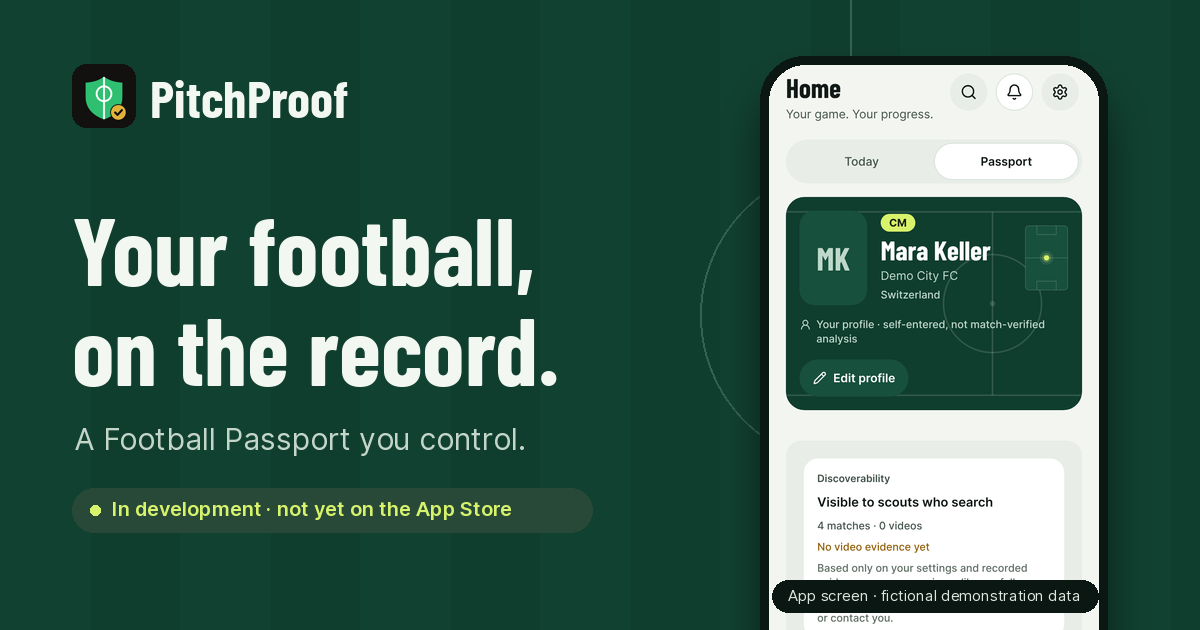
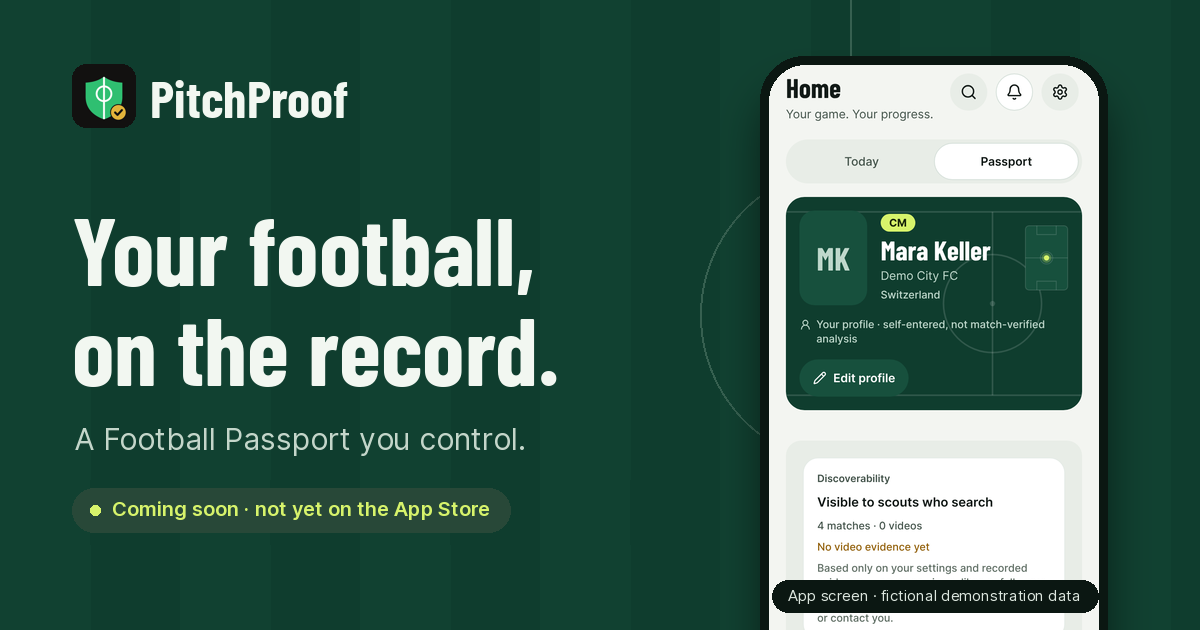
Website: say Coming soon wherever availability is shown (hero, footers, FAQ, metadata, social image)
Claude-Session: https://claude.ai/code/session_014u9U1Rm9umfgJ24q9965WJ

Changed region(s): [[0.0925, 0.754, 0.4625, 0.8444]]

diff --git a/public/features/index.html b/public/features/index.html
@@ -20,4 +20,4 @@
 <section class="section product-band" id="passport"><div class="shell product-layout"><div class="product-copy"><p class="eyebrow">01 / Football Passport</p><h2>Your game in context.</h2><p>Your player profile, match record and chosen highlights in one shareable place. Choose public sections and keep the origin of information clear.</p><ul class="plain-list"><li>Profile and football background</li><li>Logged match and season information</li><li>Selected highlights and endorsements</li><li>Sharing and visibility controls</li></ul><a class="text-link" href="/players/">The player journey &#8599;</a></div><figure class="product-preview"><div class="phone"><img src="/welcome/img/app/passport-owner-720.webp" srcset="/welcome/img/app/passport-owner-360.webp 360w, /welcome/img/app/passport-owner-720.webp 720w" sizes="(max-width: 560px) 86vw, 300px" width="720" height="1558" loading="lazy" alt="Home, Passport tab: Mara Keller's profile, labelled self-entered and not match-verified"></div><figcaption>App screen &middot; fictional demonstration data</figcaption></figure></div></section>
 <section class="section"><div class="shell feature-rows"><article><p class="eyebrow">02 / Performance</p><h2>A record you can build on.</h2><p>Log matches and statistics, track basic development goals and write a post-match reflection in your own words. Match logging and basic development stay free.</p><p class="muted">A reflection is personal and is excluded from the public Passport.</p></article><article><p class="eyebrow">03 / Media &amp; observations</p><h2>Footage is a starting point.</h2><p>Upload highlights and build reels within usage limits. Match video analysis is in development and not available in the app yet; when it ships, it asks you to confirm it is really you before anything counts.</p><p class="limitation">Continuous player tracking, automated events and pitch maps are unavailable. AI observations are not verified performance measurements.</p></article></div></section>
 <section class="section scout-band"><div class="shell"><div class="section-heading"><p class="eyebrow">04 / Scout workspace</p><h2>Research. Organise. Follow up.</h2></div><div class="editorial-grid"><article><h3>Discovery &amp; comparison</h3><p>Search opted-in players and compare evidence side by side. No overall or potential-grade sorting, and no declared winner.</p></article><article><h3>Pipeline</h3><p>Save players, filter by stage and search, and keep private workspace notes.</p></article><article><h3>Requests &amp; trials</h3><p>Ask for more evidence and manage trial invitations. Guardian co-approval applies for minors.</p></article></div><a class="text-link section-link" href="/scouts/">Explore scouting &#8599;</a></div></section>
-<section class="section"><div class="shell feature-rows"><article><p class="eyebrow">Access</p><h2>Free essentials. Clear limits.</h2><p>Match logging, basic development, safety and privacy features are always free. Optional Premium is intended to increase usage limits.</p><p>Purchasing and restore still require store and device validation. PitchProof is not yet available on the App Store.</p><a class="text-link" href="/subscription-terms/">Subscription Terms &#8599;</a></article><article><p class="eyebrow">Language &amp; privacy</p><h2>Made to fit your world.</h2><p>The app supports English, German, French, Spanish, Italian, Portuguese and Dutch. Export and account deletion are available through account settings.</p><a class="text-link" href="/welcome/#safety">Safety and privacy &#8599;</a></article></div></section><section class="closing"><div class="shell"><p class="eyebrow">The next step</p><h2>Find your side of the game.</h2><div class="actions"><a class="button" href="/players/">For players <span aria-hidden="true">&#8599;</span></a><a class="button secondary" href="/scouts/">For scouts <span aria-hidden="true">&#8599;</span></a></div><p class="small muted">Explore the product. App Store release is still ahead.</p></div></section></main><footer class="site-footer"><div class="shell"><div class="footer-top"><a class="brand" href="/welcome/">PitchProof<span class="brand-dot" aria-hidden="true"></span></a><p>Your game. Your evidence. Your terms.</p><span class="release-label">Not yet available on the App Store</span></div><nav aria-label="Footer"><a href="/features/">Features</a><a href="/players/">For players</a><a href="/scouts/">For scouts</a><a href="/about/">About</a><a href="/faq/">FAQ</a><a href="/contact/">Contact</a><a href="/welcome/#safety">Safety</a><a href="/privacy/">Privacy Policy</a><a href="/terms/">Terms of Service</a><a href="/subscription-terms/">Subscription Terms</a><a href="/support/">Support</a><a href="/report/">Report content</a><a href="/account-deletion/">Account deletion</a><a href="/legal-notice/">Legal notice</a><a href="/legal/">All policies</a></nav><div class="footer-bottom"><p>PitchProof does not guarantee trials, contracts or selection.</p><p>&copy; 2026 Lusiola Software, Switzerland.</p></div></div></footer></body></html>
+<section class="section"><div class="shell feature-rows"><article><p class="eyebrow">Access</p><h2>Free essentials. Clear limits.</h2><p>Match logging, basic development, safety and privacy features are always free. Optional Premium is intended to increase usage limits.</p><p>Purchasing and restore still require store and device validation. PitchProof is not yet available on the App Store.</p><a class="text-link" href="/subscription-terms/">Subscription Terms &#8599;</a></article><article><p class="eyebrow">Language &amp; privacy</p><h2>Made to fit your world.</h2><p>The app supports English, German, French, Spanish, Italian, Portuguese and Dutch. Export and account deletion are available through account settings.</p><a class="text-link" href="/welcome/#safety">Safety and privacy &#8599;</a></article></div></section><section class="closing"><div class="shell"><p class="eyebrow">The next step</p><h2>Find your side of the game.</h2><div class="actions"><a class="button" href="/players/">For players <span aria-hidden="true">&#8599;</span></a><a class="button secondary" href="/scouts/">For scouts <span aria-hidden="true">&#8599;</span></a></div><p class="small muted">Explore the product. App Store release is still ahead.</p></div></section></main><footer class="site-footer"><div class="shell"><div class="footer-top"><a class="brand" href="/welcome/">PitchProof<span class="brand-dot" aria-hidden="true"></span></a><p>Your game. Your evidence. Your terms.</p><span class="release-label">Coming soon &middot; not yet on the App Store</span></div><nav aria-label="Footer"><a href="/features/">Features</a><a href="/players/">For players</a><a href="/scouts/">For scouts</a><a href="/about/">About</a><a href="/faq/">FAQ</a><a href="/contact/">Contact</a><a href="/welcome/#safety">Safety</a><a href="/privacy/">Privacy Policy</a><a href="/terms/">Terms of Service</a><a href="/subscription-terms/">Subscription Terms</a><a href="/support/">Support</a><a href="/report/">Report content</a><a href="/account-deletion/">Account deletion</a><a href="/legal-notice/">Legal notice</a><a href="/legal/">All policies</a></nav><div class="footer-bottom"><p>PitchProof does not guarantee trials, contracts or selection.</p><p>&copy; 2026 Lusiola Software, Switzerland.</p></div></div></footer></body></html>

diff --git a/public/about/index.html b/public/about/index.html
@@ -19,4 +19,4 @@
 <header class="site-header"><div class="shell header-inner"><a class="brand" href="/welcome/" aria-label="PitchProof home"><img src="/welcome/img/icon.png" width="32" height="32" alt="">PitchProof<span class="brand-dot" aria-hidden="true"></span></a><details class="navigation" open><summary>Menu</summary><nav aria-label="Main"><a href="/features/">Features</a><a href="/players/">Players</a><a href="/scouts/">Scouts</a><a href="/about/" aria-current="page">About</a><a href="/faq/">FAQ</a><a href="/contact/">Contact</a><a class="nav-safety" href="/welcome/#safety">Safety &amp; privacy</a></nav></details></div></header><main id="main" tabindex="-1"><section class="page-intro"><div class="shell"><p class="eyebrow">About PitchProof</p><h1>The player behind<br>the evidence.</h1><p class="lead">Football is bigger than a single clip or a number. PitchProof brings the record together without pretending it tells the whole story.</p></div></section>
 <section class="section product-band"><div class="shell editorial-statement"><p class="eyebrow">Our starting point</p><h2>Give the work context.<br>Give the player control.</h2><p>A player should be able to record their matches, keep track of development and decide what to share. A scout should be able to understand where information comes from and ask a thoughtful follow-up.</p><p>That is the role of the Football Passport: a connected record, not a promise of discovery or a shortcut to a contract.</p></div></section>
 <section class="section"><div class="shell editorial-grid"><article><span class="index">01 / Evidence</span><h3>Be clear about the source.</h3><p>Self-reported information and AI observations need context. Missing evidence should never become an invented certainty.</p></article><article><span class="index">02 / Agency</span><h3>Let the player choose.</h3><p>Public sharing and scout discovery are deliberate choices, with additional safeguards for young players.</p></article><article><span class="index">03 / Responsibility</span><h3>Keep judgement human.</h3><p>Comparison does not need a winner. A useful scouting tool supports considered decisions, not speculative potential rankings.</p></article></div></section>
-<section class="section scout-band"><div class="shell feature-rows"><article><p class="eyebrow">Where we are</p><h2>Still being built.</h2><p>PitchProof is in development and not yet available on the App Store. Product previews use demonstration data; they are not customer results or evidence of native-device validation.</p><p>The football campaign image is AI-generated and illustrative, not a customer photograph.</p><a class="text-link" href="/faq/#availability">Availability and limitations &#8599;</a></article><article><p class="eyebrow">Who is behind it</p><h2>PitchProof.</h2><p>Operated by Lusiola Software in Switzerland. Operator details and contact information are available in the legal notice.</p><a class="text-link" href="/legal-notice/">Legal notice &#8599;</a><a class="text-link separate-link" href="/contact/">Get in touch &#8599;</a></article></div></section><section class="closing"><div class="shell"><p class="eyebrow">The next step</p><h2>Find your side of the game.</h2><div class="actions"><a class="button" href="/players/">For players <span aria-hidden="true">&#8599;</span></a><a class="button secondary" href="/scouts/">For scouts <span aria-hidden="true">&#8599;</span></a></div><p class="small muted">Explore the product. App Store release is still ahead.</p></div></section></main><footer class="site-footer"><div class="shell"><div class="footer-top"><a class="brand" href="/welcome/">PitchProof<span class="brand-dot" aria-hidden="true"></span></a><p>Your game. Your evidence. Your terms.</p><span class="release-label">Not yet available on the App Store</span></div><nav aria-label="Footer"><a href="/features/">Features</a><a href="/players/">For players</a><a href="/scouts/">For scouts</a><a href="/about/">About</a><a href="/faq/">FAQ</a><a href="/contact/">Contact</a><a href="/welcome/#safety">Safety</a><a href="/privacy/">Privacy Policy</a><a href="/terms/">Terms of Service</a><a href="/subscription-terms/">Subscription Terms</a><a href="/support/">Support</a><a href="/report/">Report content</a><a href="/account-deletion/">Account deletion</a><a href="/legal-notice/">Legal notice</a><a href="/legal/">All policies</a></nav><div class="footer-bottom"><p>PitchProof does not guarantee trials, contracts or selection.</p><p>&copy; 2026 Lusiola Software, Switzerland.</p></div></div></footer></body></html>
+<section class="section scout-band"><div class="shell feature-rows"><article><p class="eyebrow">Where we are</p><h2>Still being built.</h2><p>PitchProof is in development and not yet available on the App Store. Product previews use demonstration data; they are not customer results or evidence of native-device validation.</p><p>The football campaign image is AI-generated and illustrative, not a customer photograph.</p><a class="text-link" href="/faq/#availability">Availability and limitations &#8599;</a></article><article><p class="eyebrow">Who is behind it</p><h2>PitchProof.</h2><p>Operated by Lusiola Software in Switzerland. Operator details and contact information are available in the legal notice.</p><a class="text-link" href="/legal-notice/">Legal notice &#8599;</a><a class="text-link separate-link" href="/contact/">Get in touch &#8599;</a></article></div></section><section class="closing"><div class="shell"><p class="eyebrow">The next step</p><h2>Find your side of the game.</h2><div class="actions"><a class="button" href="/players/">For players <span aria-hidden="true">&#8599;</span></a><a class="button secondary" href="/scouts/">For scouts <span aria-hidden="true">&#8599;</span></a></div><p class="small muted">Explore the product. App Store release is still ahead.</p></div></section></main><footer class="site-footer"><div class="shell"><div class="footer-top"><a class="brand" href="/welcome/">PitchProof<span class="brand-dot" aria-hidden="true"></span></a><p>Your game. Your evidence. Your terms.</p><span class="release-label">Coming soon &middot; not yet on the App Store</span></div><nav aria-label="Footer"><a href="/features/">Features</a><a href="/players/">For players</a><a href="/scouts/">For scouts</a><a href="/about/">About</a><a href="/faq/">FAQ</a><a href="/contact/">Contact</a><a href="/welcome/#safety">Safety</a><a href="/privacy/">Privacy Policy</a><a href="/terms/">Terms of Service</a><a href="/subscription-terms/">Subscription Terms</a><a href="/support/">Support</a><a href="/report/">Report content</a><a href="/account-deletion/">Account deletion</a><a href="/legal-notice/">Legal notice</a><a href="/legal/">All policies</a></nav><div class="footer-bottom"><p>PitchProof does not guarantee trials, contracts or selection.</p><p>&copy; 2026 Lusiola Software, Switzerland.</p></div></div></footer></body></html>

diff --git a/public/players/index.html b/public/players/index.html
@@ -20,4 +20,4 @@
 <section class="section product-band"><div class="shell product-layout"><div class="product-copy"><p class="eyebrow">01 / Start with today</p><h2>One match.<br>One useful next step.</h2><p>Start from Today. Log a match, look back on how it went and keep your next development goal close.</p><ol class="number-list"><li><span>Make it yours</span>Add your football background and profile.</li><li><span>Keep a record</span>Log the matches and statistics you know.</li><li><span>Reflect</span>Write what you learned, in your own words.</li></ol></div><figure class="product-preview"><div class="phone"><img src="/welcome/img/app/today-720.webp" srcset="/welcome/img/app/today-360.webp 360w, /welcome/img/app/today-720.webp 720w" sizes="(max-width: 560px) 86vw, 300px" width="720" height="1558" loading="lazy" alt="PitchProof Today: Mara Keller's identity strip and the next step, Log your latest match"></div><figcaption>App screen &middot; fictional demonstration data</figcaption></figure></div></section>
 <section class="section"><div class="shell product-layout reverse"><div class="product-copy"><p class="eyebrow">02 / Performance</p><h2>Progress needs context.</h2><p>Review your recorded matches and work towards development goals. Missing information stays missing: a record is more useful when it is honest.</p><p>Keep personal reflection separate from public evidence. Basic development and match logging remain free.</p><a class="text-link" href="/features/">See the feature details &#8599;</a></div><figure class="product-preview"><div class="phone"><img src="/welcome/img/app/development-720.webp" srcset="/welcome/img/app/development-360.webp 360w, /welcome/img/app/development-720.webp 720w" sizes="(max-width: 560px) 86vw, 300px" width="720" height="1558" loading="lazy" alt="Development goals: Scan before receiving, and Use my left foot to switch play"></div><figcaption>App screen &middot; fictional demonstration data</figcaption></figure></div></section>
 <section class="section product-band"><div class="shell product-layout single"><div class="product-copy"><p class="eyebrow">03 / Media</p><h2>Show the moment.<br>Keep the context.</h2><p>Bring highlights into your media library and choose what to share. Reel Studio is usage-metered. Match video analysis is still in development and is not available in the app yet.</p><p class="muted">Only upload footage you have the right to use. Follow the recording and youth-safety policies.</p><a class="text-link" href="/legal/video-recording-policy/">Video Recording Policy &#8599;</a></div></div></section>
-<section class="section"><div class="shell"><div class="section-heading"><p class="eyebrow">04 / Your Passport, your terms</p><h2>Be seen when you choose.</h2><p>Choose your public Passport sections. Opt into discovery when appropriate. Respond to evidence requests and trial invitations, with guardian safeguards for minors.</p></div><div class="journey-links"><a href="/welcome/#safety"><span class="index">Before you share</span><h3>Know your controls.</h3><p>Visibility, reporting, blocking and guardian consent.</p><span class="text-link">Read about safety &#8599;</span></a><a href="/faq/#availability"><span class="index">Before you start</span><h3>Know what is available.</h3><p>PitchProof is still in development, not yet on the App Store.</p><span class="text-link">Release and access FAQ &#8599;</span></a></div></div></section></main><footer class="site-footer"><div class="shell"><div class="footer-top"><a class="brand" href="/welcome/">PitchProof<span class="brand-dot" aria-hidden="true"></span></a><p>Your game. Your evidence. Your terms.</p><span class="release-label">Not yet available on the App Store</span></div><nav aria-label="Footer"><a href="/features/">Features</a><a href="/players/">For players</a><a href="/scouts/">For scouts</a><a href="/about/">About</a><a href="/faq/">FAQ</a><a href="/contact/">Contact</a><a href="/welcome/#safety">Safety</a><a href="/privacy/">Privacy Policy</a><a href="/terms/">Terms of Service</a><a href="/subscription-terms/">Subscription Terms</a><a href="/support/">Support</a><a href="/report/">Report content</a><a href="/account-deletion/">Account deletion</a><a href="/legal-notice/">Legal notice</a><a href="/legal/">All policies</a></nav><div class="footer-bottom"><p>PitchProof does not guarantee trials, contracts or selection.</p><p>&copy; 2026 Lusiola Software, Switzerland.</p></div></div></footer></body></html>
+<section class="section"><div class="shell"><div class="section-heading"><p class="eyebrow">04 / Your Passport, your terms</p><h2>Be seen when you choose.</h2><p>Choose your public Passport sections. Opt into discovery when appropriate. Respond to evidence requests and trial invitations, with guardian safeguards for minors.</p></div><div class="journey-links"><a href="/welcome/#safety"><span class="index">Before you share</span><h3>Know your controls.</h3><p>Visibility, reporting, blocking and guardian consent.</p><span class="text-link">Read about safety &#8599;</span></a><a href="/faq/#availability"><span class="index">Before you start</span><h3>Know what is available.</h3><p>PitchProof is still in development, not yet on the App Store.</p><span class="text-link">Release and access FAQ &#8599;</span></a></div></div></section></main><footer class="site-footer"><div class="shell"><div class="footer-top"><a class="brand" href="/welcome/">PitchProof<span class="brand-dot" aria-hidden="true"></span></a><p>Your game. Your evidence. Your terms.</p><span class="release-label">Coming soon &middot; not yet on the App Store</span></div><nav aria-label="Footer"><a href="/features/">Features</a><a href="/players/">For players</a><a href="/scouts/">For scouts</a><a href="/about/">About</a><a href="/faq/">FAQ</a><a href="/contact/">Contact</a><a href="/welcome/#safety">Safety</a><a href="/privacy/">Privacy Policy</a><a href="/terms/">Terms of Service</a><a href="/subscription-terms/">Subscription Terms</a><a href="/support/">Support</a><a href="/report/">Report content</a><a href="/account-deletion/">Account deletion</a><a href="/legal-notice/">Legal notice</a><a href="/legal/">All policies</a></nav><div class="footer-bottom"><p>PitchProof does not guarantee trials, contracts or selection.</p><p>&copy; 2026 Lusiola Software, Switzerland.</p></div></div></footer></body></html>

diff --git a/public/welcome/index.html b/public/welcome/index.html
@@ -4,7 +4,7 @@
 <meta property="og:type" content="website">
 <meta property="og:site_name" content="PitchProof">
 <meta property="og:title" content="PitchProof | Your football, on the record">
-<meta property="og:description" content="A Football Passport you control: log matches, work on goals and share what you choose. In development; not yet on the App Store.">
+<meta property="og:description" content="A Football Passport you control: log matches, work on goals and share what you choose. Coming soon; not yet on the App Store.">
 <meta property="og:url" content="https://pitchproof.online/welcome/">
 <meta property="og:image" content="https://pitchproof.online/welcome/img/app/open-graph.png">
 <meta property="og:image:width" content="1200">
@@ -12,7 +12,7 @@
 <meta property="og:image:alt" content="PitchProof Football Passport screen on a pitch-green background, with fictional demonstration data">
 <meta name="twitter:card" content="summary_large_image">
 <meta name="twitter:title" content="PitchProof | Your football, on the record">
-<meta name="twitter:description" content="A Football Passport you control: log matches, work on goals and share what you choose. In development; not yet on the App Store.">
+<meta name="twitter:description" content="A Football Passport you control: log matches, work on goals and share what you choose. Coming soon; not yet on the App Store.">
 <meta name="twitter:image" content="https://pitchproof.online/welcome/img/app/open-graph.png">
 <meta name="twitter:image:alt" content="PitchProof Football Passport screen on a pitch-green background, with fictional demonstration data">
 </head>
@@ -22,7 +22,7 @@
 
 <section class="hero" aria-labelledby="hero-title"><div class="shell hero-grid">
 <div class="hero-copy">
-<p class="status-chip">In development &middot; not yet on the App Store</p>
+<p class="status-chip">Coming soon &middot; not yet on the App Store</p>
 <h1 id="hero-title">Your football, on the record.</h1>
 <p class="lead">Log your matches, work on one thing at a time and share a Football Passport you control. Scouts see only what you choose, with self-reported details clearly labelled.</p>
 <div class="actions"><a class="button" href="/players/">I am a player</a><a class="button secondary" href="/scouts/">I am a scout</a></div>
@@ -88,7 +88,7 @@
 <section class="section band" id="questions" aria-labelledby="faq-title"><div class="shell">
 <div class="section-heading"><p class="eyebrow">Before you start</p><h2 id="faq-title">Good questions.</h2></div>
 <div class="faq-list">
-<details class="faq-item"><summary>Can I download PitchProof now?</summary><p>Not yet. PitchProof is in development and is not available on the App Store. This website has no sign-up or download.</p></details>
+<details class="faq-item"><summary>Can I download PitchProof now?</summary><p>Not yet. PitchProof is coming soon: it is still in development and not available on the App Store. This website has no sign-up or download.</p></details>
 <details class="faq-item"><summary>What does it cost?</summary><p>Match logging, basic development goals, safety and privacy tools are always free. An optional Premium plan is planned to raise usage limits; nothing can be bought yet. See the <a href="/subscription-terms/">Subscription Terms</a>.</p></details>
 <details class="faq-item"><summary>Who can see my Passport?</summary><p>Only what you publish. You choose the public sections, and appearing in scout discovery is a separate opt-in. Under-13 accounts remain private.</p></details>
 <details class="faq-item"><summary>Does PitchProof rate or rank players?</summary><p>No. There are no overall or potential grades, comparisons do not declare a winner, and PitchProof does not guarantee trials, contracts or selection.</p></details>
@@ -98,4 +98,4 @@
 
 <section class="closing pitch-surface on-pitch" aria-labelledby="closing-title"><div class="shell closing-inner"><div><p class="eyebrow">The next step</p><h2 id="closing-title">Find your side of the game.</h2></div><div class="actions"><a class="button" href="/players/">For players</a><a class="button secondary" href="/scouts/">For scouts</a></div></div></section>
 </main>
-<footer class="site-footer"><div class="shell"><div class="footer-top"><a class="brand" href="/welcome/">PitchProof<span class="brand-dot" aria-hidden="true"></span></a><p>Your game. Your evidence. Your terms.</p><span class="release-label">Not yet available on the App Store</span></div><nav aria-label="Footer"><a href="/features/">Features</a><a href="/players/">For players</a><a href="/scouts/">For scouts</a><a href="/about/">About</a><a href="/faq/">FAQ</a><a href="/contact/">Contact</a><a href="/welcome/#safety">Safety</a><a href="/privacy/">Privacy Policy</a><a href="/terms/">Terms of Service</a><a href="/subscription-terms/">Subscription Terms</a><a href="/support/">Support</a><a href="/report/">Report content</a><a href="/account-deletion/">Account deletion</a><a href="/legal-notice/">Legal notice</a><a href="/legal/">All policies</a></nav><div class="footer-bottom"><p>PitchProof does not guarantee trials, contracts or selection.</p><p>&copy; 2026 Lusiola Software, Switzerland.</p></div></div></footer></body></html>
+<footer class="site-footer"><div class="shell"><div class="footer-top"><a class="brand" href="/welcome/">PitchProof<span class="brand-dot" aria-hidden="true"></span></a><p>Your game. Your evidence. Your terms.</p><span class="release-label">Coming soon &middot; not yet on the App Store</span></div><nav aria-label="Footer"><a href="/features/">Features</a><a href="/players/">For players</a><a href="/scouts/">For scouts</a><a href="/about/">About</a><a href="/faq/">FAQ</a><a href="/contact/">Contact</a><a href="/welcome/#safety">Safety</a><a href="/privacy/">Privacy Policy</a><a href="/terms/">Terms of Service</a><a href="/subscription-terms/">Subscription Terms</a><a href="/support/">Support</a><a href="/report/">Report content</a><a href="/account-deletion/">Account deletion</a><a href="/legal-notice/">Legal notice</a><a href="/legal/">All policies</a></nav><div class="footer-bottom"><p>PitchProof does not guarantee trials, contracts or selection.</p><p>&copy; 2026 Lusiola Software, Switzerland.</p></div></div></footer></body></html>

diff --git a/public/scouts/index.html b/public/scouts/index.html
@@ -20,4 +20,4 @@
 <section class="section product-band"><div class="shell product-layout"><div class="product-copy"><p class="eyebrow">01 / Discovery</p><h2>Find a player.<br>Understand the record.</h2><p>Search opted-in players and refine your discovery. Review their Passport before deciding what evidence you need next.</p><p>Side-by-side comparison is neutral: no winner, no overall or potential-grade sorting. Your judgement remains yours.</p></div><figure class="product-preview"><div class="phone"><img src="/welcome/img/app/scout-discover-720.webp" srcset="/welcome/img/app/scout-discover-360.webp 360w, /welcome/img/app/scout-discover-720.webp 720w" sizes="(max-width: 560px) 86vw, 300px" width="720" height="1558" loading="lazy" alt="Discover Players: cards with matches logged, analysis samples and evidence freshness"></div><figcaption>App screen &middot; fictional demonstration data</figcaption></figure></div></section>
 <section class="section"><div class="shell product-layout reverse"><div class="product-copy"><p class="eyebrow">02 / Pipeline</p><h2>Keep the next step clear.</h2><p>Save players to your pipeline, filter by stage, search your workspace and keep private notes alongside your research.</p><ol class="number-list"><li><span>Save</span>Keep a player in your working pipeline.</li><li><span>Contextualise</span>Record private notes and review available evidence.</li><li><span>Follow up</span>Request missing evidence or prepare a trial invitation.</li></ol></div><figure class="product-preview"><div class="phone"><img src="/welcome/img/app/scout-pipeline-720.webp" srcset="/welcome/img/app/scout-pipeline-360.webp 360w, /welcome/img/app/scout-pipeline-720.webp 720w" sizes="(max-width: 560px) 86vw, 300px" width="720" height="1558" loading="lazy" alt="Recruitment Pipeline, list view, with no saved players yet"></div><figcaption>App screen &middot; fictional demonstration data</figcaption></figure></div></section>
 <section class="section product-band"><div class="shell product-layout"><div class="product-copy"><p class="eyebrow">03 / Requests &amp; trials</p><h2>A proper invitation.<br>A clear response.</h2><p>Request evidence and send trial invitations with details a player can review. Track the response instead of losing the next step.</p><p>Minor-player requests require guardian co-approval. An invitation is not a contract or a guarantee of selection.</p><a class="text-link" href="/legal/youth-safety-policy/">Youth Safety Policy &#8599;</a></div><figure class="product-preview"><div class="phone"><img src="/welcome/img/app/scout-report-720.webp" srcset="/welcome/img/app/scout-report-360.webp 360w, /welcome/img/app/scout-report-720.webp 720w" sizes="(max-width: 560px) 86vw, 300px" width="720" height="1558" loading="lazy" alt="Scouting report: evidence insufficient, why this player, why you might wait, Invite to Trial"></div><figcaption>App screen &middot; fictional demonstration data</figcaption></figure></div></section>
-<section class="closing"><div class="shell"><p class="eyebrow">Responsible scouting</p><h2>Evidence informs.<br>People decide.</h2><p class="lead">PitchProof supports a scouting workflow. It does not certify player ability or predict a career.</p><div class="actions"><a class="button" href="/features/">Review the capabilities &#8599;</a><a class="button secondary" href="/contact/">Contact PitchProof &#8599;</a></div><p class="small muted">Not yet available on the App Store.</p></div></section></main><footer class="site-footer"><div class="shell"><div class="footer-top"><a class="brand" href="/welcome/">PitchProof<span class="brand-dot" aria-hidden="true"></span></a><p>Your game. Your evidence. Your terms.</p><span class="release-label">Not yet available on the App Store</span></div><nav aria-label="Footer"><a href="/features/">Features</a><a href="/players/">For players</a><a href="/scouts/">For scouts</a><a href="/about/">About</a><a href="/faq/">FAQ</a><a href="/contact/">Contact</a><a href="/welcome/#safety">Safety</a><a href="/privacy/">Privacy Policy</a><a href="/terms/">Terms of Service</a><a href="/subscription-terms/">Subscription Terms</a><a href="/support/">Support</a><a href="/report/">Report content</a><a href="/account-deletion/">Account deletion</a><a href="/legal-notice/">Legal notice</a><a href="/legal/">All policies</a></nav><div class="footer-bottom"><p>PitchProof does not guarantee trials, contracts or selection.</p><p>&copy; 2026 Lusiola Software, Switzerland.</p></div></div></footer></body></html>
+<section class="closing"><div class="shell"><p class="eyebrow">Responsible scouting</p><h2>Evidence informs.<br>People decide.</h2><p class="lead">PitchProof supports a scouting workflow. It does not certify player ability or predict a career.</p><div class="actions"><a class="button" href="/features/">Review the capabilities &#8599;</a><a class="button secondary" href="/contact/">Contact PitchProof &#8599;</a></div><p class="small muted">Not yet available on the App Store.</p></div></section></main><footer class="site-footer"><div class="shell"><div class="footer-top"><a class="brand" href="/welcome/">PitchProof<span class="brand-dot" aria-hidden="true"></span></a><p>Your game. Your evidence. Your terms.</p><span class="release-label">Coming soon &middot; not yet on the App Store</span></div><nav aria-label="Footer"><a href="/features/">Features</a><a href="/players/">For players</a><a href="/scouts/">For scouts</a><a href="/about/">About</a><a href="/faq/">FAQ</a><a href="/contact/">Contact</a><a href="/welcome/#safety">Safety</a><a href="/privacy/">Privacy Policy</a><a href="/terms/">Terms of Service</a><a href="/subscription-terms/">Subscription Terms</a><a href="/support/">Support</a><a href="/report/">Report content</a><a href="/account-deletion/">Account deletion</a><a href="/legal-notice/">Legal notice</a><a href="/legal/">All policies</a></nav><div class="footer-bottom"><p>PitchProof does not guarantee trials, contracts or selection.</p><p>&copy; 2026 Lusiola Software, Switzerland.</p></div></div></footer></body></html>

diff --git a/public/faq/index.html b/public/faq/index.html
@@ -18,7 +18,7 @@
 </head><body><a class="skip" href="#main">Skip to content</a>
 <header class="site-header"><div class="shell header-inner"><a class="brand" href="/welcome/" aria-label="PitchProof home"><img src="/welcome/img/icon.png" width="32" height="32" alt="">PitchProof<span class="brand-dot" aria-hidden="true"></span></a><details class="navigation" open><summary>Menu</summary><nav aria-label="Main"><a href="/features/">Features</a><a href="/players/">Players</a><a href="/scouts/">Scouts</a><a href="/about/">About</a><a href="/faq/" aria-current="page">FAQ</a><a href="/contact/">Contact</a><a class="nav-safety" href="/welcome/#safety">Safety &amp; privacy</a></nav></details></div></header><main id="main" tabindex="-1"><section class="page-intro"><div class="shell"><p class="eyebrow">Questions, answered</p><h1>Before the next step.</h1><p class="lead">A few things worth knowing about access, evidence and control.</p></div></section>
 <section class="section faq-section"><div class="shell faq-layout"><nav class="faq-nav" aria-label="FAQ topics"><a href="#availability">Availability</a><a href="#passport">The Passport</a><a href="#youth">Young players</a><a href="#analysis">Video analysis</a><a href="#pricing">Free &amp; Premium</a><a href="#deletion">Your account</a></nav><div>
-<details class="faq-item" id="availability"><summary>Can I download PitchProof now?</summary><div><p>Not yet. PitchProof is in development and is not available on the App Store. There is no active store download or sign-up promise on this website.</p></div></details>
+<details class="faq-item" id="availability"><summary>Can I download PitchProof now?</summary><div><p>Not yet. PitchProof is coming soon: it is still in development and is not available on the App Store. There is no active store download or sign-up promise on this website.</p></div></details>
 <details class="faq-item" id="passport"><summary>What is a Football Passport?</summary><div><p>A shareable player record bringing together profile information, logged matches and selected evidence such as highlights. Players choose which sections are public.</p><p><a href="/players/">Explore the player journey</a>.</p></div></details>
 <details class="faq-item" id="discovery"><summary>Can every scout find my profile?</summary><div><p>Scout discovery is opt-in, not automatic. Visibility and youth-safety rules apply. Under-13 accounts remain private.</p></div></details>
 <details class="faq-item" id="youth"><summary>How are young players protected?</summary><div><p>Youth features require guardian consent, with guardian co-approval for minor-player evidence requests and trials. Under-13 accounts remain private and require the applicable parental consent process.</p><p><a href="/legal/guardian-consent-notice/">Read the Guardian Consent Notice</a> and <a href="/legal/youth-safety-policy/">Youth Safety Policy</a> for the full rules.</p></div></details>
@@ -29,4 +29,4 @@
 <details class="faq-item" id="reflection"><summary>Is my post-match reflection public?</summary><div><p>No. Your own-word reflection is excluded from the public Passport projection.</p></div></details>
 <details class="faq-item" id="deletion"><summary>How do I export data or delete my account?</summary><div><p>Use account settings in the app. If you cannot access your account, follow the <a href="/account-deletion/">account deletion instructions</a> or contact <a href="/support/">support</a>. Account deletion does not cancel an Apple subscription.</p></div></details>
 <details class="faq-item" id="reporting"><summary>Where can I report a concern?</summary><div><p>Use the <a href="/report/">reporting page</a> for a profile, media or safety concern. Reporting and blocking are never paywalled. For other help, <a href="/contact/">contact PitchProof</a>.</p></div></details>
-</div></div></section></main><footer class="site-footer"><div class="shell"><div class="footer-top"><a class="brand" href="/welcome/">PitchProof<span class="brand-dot" aria-hidden="true"></span></a><p>Your game. Your evidence. Your terms.</p><span class="release-label">Not yet available on the App Store</span></div><nav aria-label="Footer"><a href="/features/">Features</a><a href="/players/">For players</a><a href="/scouts/">For scouts</a><a href="/about/">About</a><a href="/faq/">FAQ</a><a href="/contact/">Contact</a><a href="/welcome/#safety">Safety</a><a href="/privacy/">Privacy Policy</a><a href="/terms/">Terms of Service</a><a href="/subscription-terms/">Subscription Terms</a><a href="/support/">Support</a><a href="/report/">Report content</a><a href="/account-deletion/">Account deletion</a><a href="/legal-notice/">Legal notice</a><a href="/legal/">All policies</a></nav><div class="footer-bottom"><p>PitchProof does not guarantee trials, contracts or selection.</p><p>&copy; 2026 Lusiola Software, Switzerland.</p></div></div></footer></body></html>
+</div></div></section></main><footer class="site-footer"><div class="shell"><div class="footer-top"><a class="brand" href="/welcome/">PitchProof<span class="brand-dot" aria-hidden="true"></span></a><p>Your game. Your evidence. Your terms.</p><span class="release-label">Coming soon &middot; not yet on the App Store</span></div><nav aria-label="Footer"><a href="/features/">Features</a><a href="/players/">For players</a><a href="/scouts/">For scouts</a><a href="/about/">About</a><a href="/faq/">FAQ</a><a href="/contact/">Contact</a><a href="/welcome/#safety">Safety</a><a href="/privacy/">Privacy Policy</a><a href="/terms/">Terms of Service</a><a href="/subscription-terms/">Subscription Terms</a><a href="/support/">Support</a><a href="/report/">Report content</a><a href="/account-deletion/">Account deletion</a><a href="/legal-notice/">Legal notice</a><a href="/legal/">All policies</a></nav><div class="footer-bottom"><p>PitchProof does not guarantee trials, contracts or selection.</p><p>&copy; 2026 Lusiola Software, Switzerland.</p></div></div></footer></body></html>

diff --git a/public/contact/index.html b/public/contact/index.html
@@ -18,4 +18,4 @@
 </head><body><a class="skip" href="#main">Skip to content</a>
 <header class="site-header"><div class="shell header-inner"><a class="brand" href="/welcome/" aria-label="PitchProof home"><img src="/welcome/img/icon.png" width="32" height="32" alt="">PitchProof<span class="brand-dot" aria-hidden="true"></span></a><details class="navigation" open><summary>Menu</summary><nav aria-label="Main"><a href="/features/">Features</a><a href="/players/">Players</a><a href="/scouts/">Scouts</a><a href="/about/">About</a><a href="/faq/">FAQ</a><a href="/contact/" aria-current="page">Contact</a><a class="nav-safety" href="/welcome/#safety">Safety &amp; privacy</a></nav></details></div></header><main id="main" tabindex="-1"><section class="page-intro"><div class="shell"><p class="eyebrow">Contact</p><h1>Start a conversation.</h1><p class="lead">Product questions, account help or a privacy request. Choose the right route so your message has the context it needs.</p></div></section>
 <section class="section product-band"><div class="shell contact-layout"><div><p class="eyebrow">General &amp; product enquiries</p><h2>Talk to PitchProof.</h2><a class="contact-email" href="mailto:support@pitchproof.online">support@pitchproof.online <span aria-hidden="true">&#8599;</span></a><p class="muted">Your email app will open. No message is submitted through this website.</p><p>Do not send passwords, sign-in codes or unnecessary identity documents.</p></div><div class="contact-routes"><article><h3>Account help</h3><p>Access problems, account settings or a question about the app.</p><a class="text-link" href="/support/">Support &#8599;</a></article><article><h3>Privacy &amp; deletion</h3><p>Find your data rights and the steps to delete an account.</p><div class="inline-links"><a href="/account-deletion/">Account deletion</a><a href="/legal/data-subject-rights/">Data rights</a></div></article><article><h3>Report a concern</h3><p>For content, a profile or a safety issue, use the dedicated reporting route.</p><a class="text-link" href="/report/">Report content &#8599;</a></article></div></div></section>
-<section class="section"><div class="shell feature-rows"><article><p class="eyebrow">Before you write</p><h2>The answer may be here.</h2><p>Questions about availability, what analysis can do, guardian safeguards and subscriptions are covered in the FAQ.</p><a class="text-link" href="/faq/">Read the FAQ &#8599;</a></article><article><p class="eyebrow">Operator</p><h2>Lusiola Software.</h2><p>Switzerland. Full operator details and legal contact information are kept in the legal notice.</p><a class="text-link" href="/legal-notice/">Legal notice &#8599;</a></article></div></section></main><footer class="site-footer"><div class="shell"><div class="footer-top"><a class="brand" href="/welcome/">PitchProof<span class="brand-dot" aria-hidden="true"></span></a><p>Your game. Your evidence. Your terms.</p><span class="release-label">Not yet available on the App Store</span></div><nav aria-label="Footer"><a href="/features/">Features</a><a href="/players/">For players</a><a href="/scouts/">For scouts</a><a href="/about/">About</a><a href="/faq/">FAQ</a><a href="/contact/">Contact</a><a href="/welcome/#safety">Safety</a><a href="/privacy/">Privacy Policy</a><a href="/terms/">Terms of Service</a><a href="/subscription-terms/">Subscription Terms</a><a href="/support/">Support</a><a href="/report/">Report content</a><a href="/account-deletion/">Account deletion</a><a href="/legal-notice/">Legal notice</a><a href="/legal/">All policies</a></nav><div class="footer-bottom"><p>PitchProof does not guarantee trials, contracts or selection.</p><p>&copy; 2026 Lusiola Software, Switzerland.</p></div></div></footer></body></html>
+<section class="section"><div class="shell feature-rows"><article><p class="eyebrow">Before you write</p><h2>The answer may be here.</h2><p>Questions about availability, what analysis can do, guardian safeguards and subscriptions are covered in the FAQ.</p><a class="text-link" href="/faq/">Read the FAQ &#8599;</a></article><article><p class="eyebrow">Operator</p><h2>Lusiola Software.</h2><p>Switzerland. Full operator details and legal contact information are kept in the legal notice.</p><a class="text-link" href="/legal-notice/">Legal notice &#8599;</a></article></div></section></main><footer class="site-footer"><div class="shell"><div class="footer-top"><a class="brand" href="/welcome/">PitchProof<span class="brand-dot" aria-hidden="true"></span></a><p>Your game. Your evidence. Your terms.</p><span class="release-label">Coming soon &middot; not yet on the App Store</span></div><nav aria-label="Footer"><a href="/features/">Features</a><a href="/players/">For players</a><a href="/scouts/">For scouts</a><a href="/about/">About</a><a href="/faq/">FAQ</a><a href="/contact/">Contact</a><a href="/welcome/#safety">Safety</a><a href="/privacy/">Privacy Policy</a><a href="/terms/">Terms of Service</a><a href="/subscription-terms/">Subscription Terms</a><a href="/support/">Support</a><a href="/report/">Report content</a><a href="/account-deletion/">Account deletion</a><a href="/legal-notice/">Legal notice</a><a href="/legal/">All policies</a></nav><div class="footer-bottom"><p>PitchProof does not guarantee trials, contracts or selection.</p><p>&copy; 2026 Lusiola Software, Switzerland.</p></div></div></footer></body></html>

diff --git a/e2e/marketing-site.spec.ts b/e2e/marketing-site.spec.ts
@@ -76,12 +76,13 @@ test('hero states the product, keeps both audience actions on the first screen a
   await page.goto(`${origin}/welcome/`);
   await expect(page.getByRole('heading', { level: 1, name: 'Your football, on the record.', exact: true })).toBeVisible();
   await expect(page.getByRole('link', { name: 'PitchProof home' })).toBeVisible();
-  await expect(page.locator('.hero .status-chip')).toHaveText('In development · not yet on the App Store');
+  await expect(page.locator('.hero .status-chip')).toHaveText('Coming soon · not yet on the App Store');
   await expect(page.getByRole('link', { name: 'I am a player' })).toHaveAttribute('href', '/players/');
   await expect(page.getByRole('link', { name: 'I am a scout' })).toHaveAttribute('href', '/scouts/');
   const actionsBottom = await page.locator('.hero .actions').evaluate((element) => element.getBoundingClientRect().bottom);
   expect(actionsBottom).toBeLessThan(await page.evaluate(() => innerHeight));
   await expect(page.locator('.hero-caption')).toHaveText('App screens · fictional demonstration data');
+  await expect(page.locator('.site-footer .release-label')).toHaveText('Coming soon · not yet on the App Store');
   for (const image of await page.locator('.hero-visual img').all()) {
     if (!(await image.isVisible())) continue;
     await expect(image).toHaveAttribute('src', /^\/welcome\/img\/app\/[a-z-]+-720\.webp$/);
